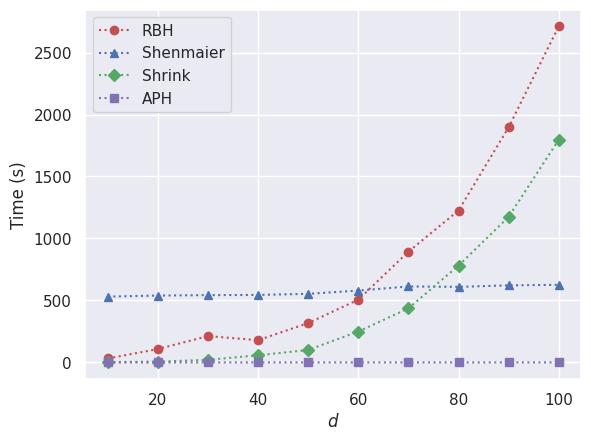
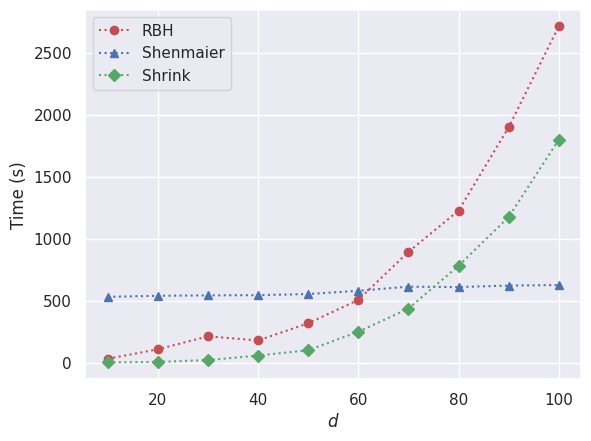
plots

diff --git a/src/alg_plots.py b/src/alg_plots.py
@@ -90,15 +90,16 @@ for data_type in data_types:
         plt.ylabel("Time (s)")
 
         for heuristic, times in times_dict.items():
-            if heuristic == "shenmaier" and param == "n":
-                x_axis = [1000 + 3000*i for i in range(8)]
-            elif heuristic == "relaxation_heuristic" and data_type == "uniform_ball_with_outliers" and param == "d":
-                x_axis = [10 + 10*i for i in range(8)]
-            else:
-                x_axis = axes[param]
+            if heuristic != "shrink_avg":
+                if heuristic == "shenmaier" and param == "n":
+                    x_axis = [1000 + 3000*i for i in range(8)]
+                elif heuristic == "relaxation_heuristic" and data_type == "uniform_ball_with_outliers" and param == "d":
+                    x_axis = [10 + 10*i for i in range(8)]
+                else:
+                    x_axis = axes[param]
 
-            plt.plot(x_axis, times, marker=markers_funcs[heuristic], color=colours_funcs[heuristic], linestyle=":", label=labels_funcs[heuristic])
-        
+                plt.plot(x_axis, times, marker=markers_funcs[heuristic], color=colours_funcs[heuristic], linestyle=":", label=labels_funcs[heuristic])
+            
         if data_type == "normal" and param == "eta":
             plt.legend(loc="best", bbox_to_anchor=(0.5,0.,0.5,0.5))
         else:
